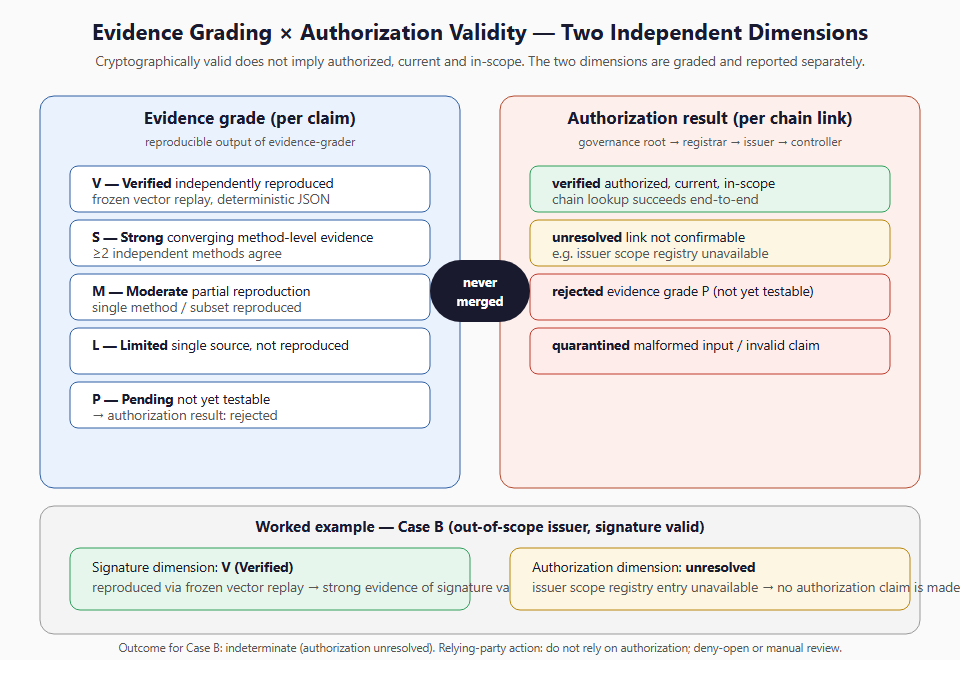
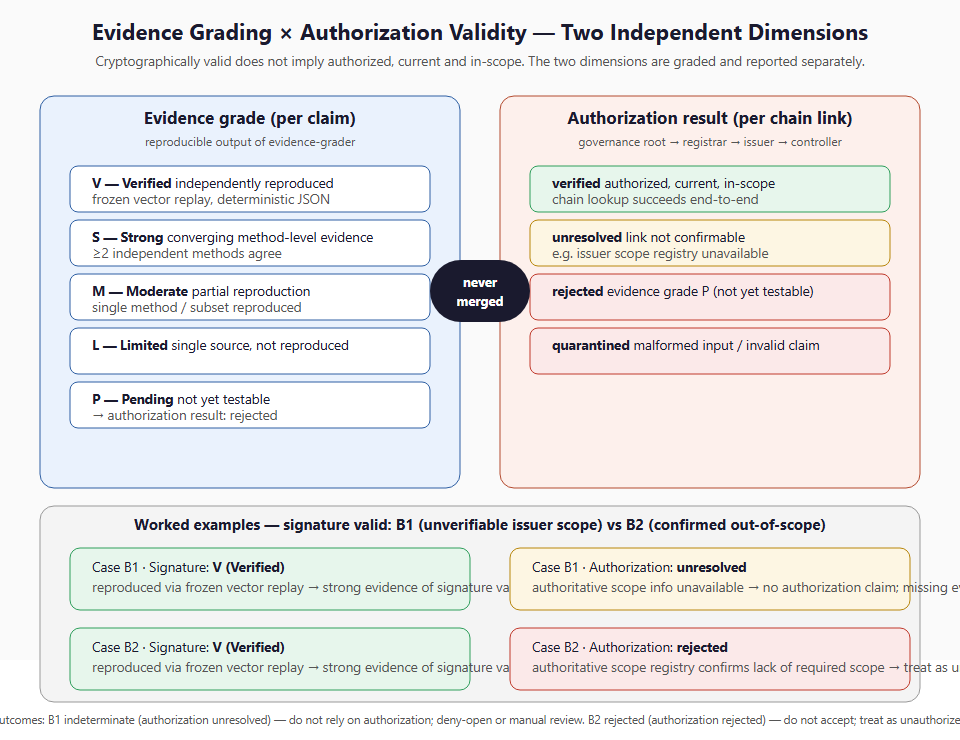
feat(cases): split Case B into B1/B2 with authorization validity dimension (grader v1.2)
Per FG-TIDA themes#42 review: missing evidence of authorization (B1, unresolved) must never be treated as equivalent to demonstrated invalid authorization (B2, rejected). Adds case-level authorization result (verified/unresolved/rejected/quarantined) to inputs and conclusions, updates diagrams (SVG+PNG), README and worked-examples appendix, and regenerates all payload digests. Reproducible via tools/evidence-grader.py (selftest: 15 invariants passed).

Changed region(s): [[0.0, 0.0309, 1.0, 0.9882]]

diff --git a/tools/evidence-grader.py b/tools/evidence-grader.py
@@ -25,7 +25,7 @@ P = Pending / not yet testable（待定）
 
 Failure semantics / 失败语义（v1.1 新增，对应 FG-TIDA use-cases#27 建议）
 ------------------------------------------------------------------------
-每个证据项与每个域输出 failure_class，三态：
+每个证据项与每个域输出 failure_class，四态：
 - quarantined（隔离）: malformed input — missing claim or invalid grade（输入畸形：缺声明或非法级别）
 - rejected（拒绝）   : evidence validly asserted but grade=P (pending, not yet testable)（声明合法但尚不可判定，拒绝采用）
 - unresolved（未决） : evidence exists but the link is not confirmable — verifiable kinds
@@ -33,6 +33,16 @@ Failure semantics / 失败语义（v1.1 新增，对应 FG-TIDA use-cases#27 建
                        （证据存在但链路未确认：可验证类证据缺少可复现/时间戳，或空域）
 - none（无失败）     : evidence accepted at face value（证据正常采用）
 聚合规则：overall_failure_class 取最严重类（quarantined > rejected > unresolved > none）。
+
+Authorization validity / 授权有效性维度（v1.2 新增，对应 FG-TIDA themes#42 评审反馈）
+-----------------------------------------------------------------------------
+证据分级与授权有效性是两个独立维度（见 FG-TIDA/use-cases#27 讨论与 themes#42）。
+输入 JSON 可选携带 case 级 authorization 对象：
+- result（必填）: verified / unresolved / rejected / quarantined
+- reason（必填）: 机器可读原因码/说明
+- relying_party_action（可选）: 依赖方可执行动作
+关键语义：授权信息缺失（unresolved）绝不等于已证实越权（rejected）。
+payload_digest 计算纳入 authorization，端到端可复现。
 
 Usage / 用法
 -------------
@@ -45,7 +55,7 @@ Exit codes / 退出码: 0 success（成功）, 1 input/validation error（输入
 
 Author / 作者: LGD-Eval（Independent Evaluation）
 License / 许可: Apache-2.0
-Version / 版本: v1.1 — failure semantics implemented（失败语义已实现）
+Version / 版本: v1.2 — authorization validity dimension added（授权有效性维度已加入；对应 themes#42 评审反馈）
 """
 from __future__ import annotations
 import argparse, json, sys, hashlib, datetime
@@ -66,6 +76,9 @@ GRADE_ORDER = ["V", "S", "M", "L", "P"]
 # Failure classes / 失败语义类（从最严重到无）
 FAIL_CLASSES = ["quarantined", "rejected", "unresolved", "none"]
 FAIL_ORDER = {c: i for i, c in enumerate(FAIL_CLASSES)}
+
+# Authorization validity results / 授权有效性结果（独立维度，v1.2）
+AUTH_RESULTS = ["verified", "unresolved", "rejected", "quarantined"]
 # 本应可验证的证据类型（若缺少可复现/时间戳则链路未确认）
 VERIFIABLE_KINDS = {"audit", "repro-test", "design+test", "process", "interop"}
 
@@ -118,6 +131,16 @@ def validate(evidence: dict) -> list:
                 errors.append("domain %s: invalid grade %r (允许 V/S/M/L/P)" % (key, grade))
             if not it.get("claim"):
                 errors.append("domain %s: evidence item missing 'claim' (缺少声明)" % key)
+    auth = evidence.get("authorization")
+    if auth is not None:
+        if not isinstance(auth, dict):
+            errors.append("'authorization' must be an object (authorization 必须是对象)")
+        else:
+            if auth.get("result") not in AUTH_RESULTS:
+                errors.append("authorization.result must be one of verified/unresolved/rejected/quarantined"
+                              " (授权结果必须是四态之一)")
+            if not auth.get("reason"):
+                errors.append("authorization.reason is required (授权原因必填)")
     return errors
 
 
@@ -191,20 +214,24 @@ def conclude(evidence: dict, subject: str, evaluator: str = "LGD-Eval") -> dict:
         if FAIL_ORDER[r["failure_class"]] < FAIL_ORDER[overall_fc]:
             overall_fc = r["failure_class"]
     now = datetime.datetime.now(datetime.timezone.utc).strftime("%Y-%m-%dT%H:%M:%SZ")
+    auth = evidence.get("authorization")
     payload = OrderedDict([
-        ("schema", "lgd-eval/conclusion/v1.1"),
+        ("schema", "lgd-eval/conclusion/v1.2"),
         ("subject", subject),
         ("evaluator", evaluator),
         ("timestamp", now),
         ("verdict", verdict),
         ("overall_failure_class", overall_fc),
+        ("authorization", auth),
         ("no_composite_score", True),
         ("bias_controls", BIAS_CONTROLS),
         ("domains", domain_results),
         ("reproducibility", {
             "open_rubric": True, "evidence_appendix": True, "response_window_days": 14,
             "correction_window_hours": 24, "machine_readable": True,
-            "payload_digest": digest_of(json.dumps(domain_results, ensure_ascii=False)),
+            "payload_digest": digest_of(json.dumps(
+                OrderedDict([("domains", domain_results), ("authorization", auth)]),
+                ensure_ascii=False)),
         }),
     ])
     return payload
@@ -278,6 +305,11 @@ DEMO = {
              "kind": "interop", "source": "JSON-LD schema + validator", "reproducible": True, "timestamped": False},
         ],
     },
+    "authorization": {
+        "result": "verified",
+        "reason": "issuer listed in authoritative scope registry for this credential profile and claim type",
+        "relying_party_action": "proceed per normal policy",
+    },
 }
 
 
@@ -305,8 +337,8 @@ def run_selftest() -> int:
         errs.append("selftest 4: composite discipline broken")
     if len(c["domains"]) != 6:
         errs.append("selftest 5: domain count != 6")
-    if c["schema"] != "lgd-eval/conclusion/v1.1":
-        errs.append("selftest 5b: schema version not v1.1")
+    if c["schema"] != "lgd-eval/conclusion/v1.2":
+        errs.append("selftest 5b: schema version not v1.2")
     # 5. Deterministic digest / 摘要确定性
     if digest_of("abc") != digest_of("abc"):
         errs.append("selftest 6: digest not deterministic")
@@ -325,11 +357,35 @@ def run_selftest() -> int:
         errs.append("selftest 11: overall failure class should be none for demo")
     if "failure_class" not in c["domains"]["D4"] or c["domains"]["D4"]["failure_class"] != "none":
         errs.append("selftest 12: D4 policy evidence failure class should be none")
+    # 13. Authorization validity dimension / 授权维度校验与透传
+    if c["schema"] != "lgd-eval/conclusion/v1.2":
+        errs.append("selftest 13: schema version not v1.2")
+    if not c.get("authorization") or c["authorization"].get("result") != "verified":
+        errs.append("selftest 13b: authorization validity not carried into conclusion")
+    bad_auth = {"subject": "x", "domains": {"D1": [{"claim": "c", "grade": "V"}]},
+                "authorization": {"result": "bogus", "reason": "r"}}
+    if not validate(bad_auth):
+        errs.append("selftest 13c: invalid authorization result not rejected")
+    # 14. B1 vs B2 separation / missing evidence of authorization ≠ demonstrated invalid authorization
+    b1 = {"subject": "B1", "domains": {"D1": [{"claim": "sig", "grade": "V", "kind": "repro-test",
+                                                "reproducible": True, "timestamped": True}]},
+          "authorization": {"result": "unresolved", "reason": "scope info unavailable"}}
+    b2 = {"subject": "B2", "domains": {"D1": [{"claim": "sig", "grade": "V", "kind": "repro-test",
+                                                "reproducible": True, "timestamped": True}]},
+          "authorization": {"result": "rejected", "reason": "scope registry confirms lack of scope"}}
+    c1, c2 = conclude(b1, "B1"), conclude(b2, "B2")
+    if c1["authorization"]["result"] != "unresolved" or c2["authorization"]["result"] != "rejected":
+        errs.append("selftest 14: B1/B2 authorization separation broken")
+    if c1["reproducibility"]["payload_digest"] == c2["reproducibility"]["payload_digest"]:
+        errs.append("selftest 14b: B1/B2 digests must differ (authorization enters digest)")
+    # 15. Digest determinism including authorization / 摘要确定性（含授权维度）
+    if conclude(b1, "B1")["reproducibility"]["payload_digest"] != c1["reproducibility"]["payload_digest"]:
+        errs.append("selftest 15: digest not deterministic with authorization")
     if errs:
         for e in errs:
             print("FAIL: %s" % e)
         return 1
-    print("SELFTEST OK — 12 invariants passed（12 项不变量全部通过）")
+    print("SELFTEST OK — 15 invariants passed（15 项不变量全部通过）")
     return 0
 
 

diff --git a/worked-examples/cases/README.md b/worked-examples/cases/README.md
@@ -1,12 +1,22 @@
-# Worked Examples — Three Implementation-Neutral Cases
+# Worked Examples — Four Implementation-Neutral Cases
 
[2 lines of base64/hex data omitted]
+
+The former "Case B — Out-of-scope issuer" has been split into **B1** and **B2** per the [themes#42 review](https://github.com/FG-TIDA/themes/issues/42): missing evidence of authorization (B1, `unresolved`) must never be treated as equivalent to demonstrated invalid authorization (B2, `rejected`).
 
 | Case | Input (JSON) | Outcome | Reason | Relying-party action |
 |---|---|---|---|---|
 | A. Valid registered credential | `caseA_valid_registered_credential_input.json` | **positive** | `none` | proceed per normal policy |
-| B. Out-of-scope issuer (signature valid) | `caseB_out_of_scope_issuer_input.json` | **indeterminate** | `authorization unresolved` | do not rely on authorization; treat per risk policy (deny-open or manual review) |
+| B1. Unverifiable issuer scope (signature valid) | `caseB1_unverifiable_issuer_scope_input.json` | **indeterminate** | `authorization unresolved` — missing evidence of authorization ≠ demonstrated invalid authorization | do not rely on authorization; treat per risk policy (deny-open or manual review) |
+| B2. Confirmed out-of-scope issuer (signature valid) | `caseB2_confirmed_out_of_scope_issuer_input.json` | **rejected** | `authorization rejected` — authoritative scope registry confirms the issuer lacks the required scope | do not accept the credential for this operation; treat as unauthorized |
 | C. Status source unavailable | `caseC_unavailable_status_source_input.json` | **indeterminate** | `status unavailable ≠ revoked` | do not treat as revoked; do not treat as valid; escalate |
+
+## B1 vs B2 — the distinction
+
+- **B1** tests the case where authoritative issuer-scope information is **unavailable** at verification time (issuer self-declaration only). The verifier cannot confirm authorization, so the authorization result is **unresolved / indeterminate**; the relying party must not assume the issuer is out of scope, but also must not rely on the authorization.
+- **B2** tests the case where an authoritative scope registry **confirms** that the issuer lacks the required scope for this credential profile and claim type, with a valid signature. The authorization result is **rejected / unauthorized**, with an explicit reason code.
+
+Both retain explicit reason codes and remain distinguishable in the machine-readable conclusion (`authorization.result`), so implementations can fail the same observable way — addressing the interoperability concern raised in FG-TIDA themes#7 and use-cases#27 (implementations that *fail* differently break interoperability faster than implementations that *verify* differently).
 
 ## Decision flow
 
@@ -17,10 +27,11 @@ flowchart TD
     B -->|M / L| D{More evidence obtainable?}
     B -->|P| E[Rejected: not yet testable]
     C -->|Yes| F{Status current?}
-    C -->|No| G[Indeterminate - authorization unresolved<br/>deny-open or manual review]
-    F -->|Yes| H[Positive - proceed per normal policy]
+    C -->|No - scope info unavailable| G[Indeterminate - B1: authorization unresolved<br/>missing evidence ≠ invalid; deny-open or manual review]
+    C -->|No - scope confirmed lacking| G2[Rejected - B2: authorization rejected<br/>do not accept; treat as unauthorized]
+    F -->|Yes| H[Positive - A: proceed per normal policy]
     F -->|No / revoked| I[Negative - treat as revoked]
-    F -->|Unavailable| J[Indeterminate - status unavailable does not equal revoked<br/>escalate]
+    F -->|Unavailable| J[Indeterminate - C: status unavailable does not equal revoked<br/>escalate]
     D -->|Yes| K[Request more evidence / re-evaluate]
     D -->|No| G
 ```
@@ -47,10 +58,11 @@ sequenceDiagram
 
 ## Machine-readable notes
 
-- Each conclusion JSON carries a `payload_digest` for end-to-end reproduction:
-  - Case A: `edc9b6fafba9ccf4`
-  - Case B: `995eba87beff6e7a`
-  - Case C: `faaf76277c4ac390`
-- Scope note: `overall_failure_class` in the conclusion JSON is computed under the tool's global discipline (out-of-scope domains report `unresolved` when no evidence is provided; this is expected v1.1 behaviour). The case-level outcome / reason / relying-party-action above is the layered interpretation discussed in FG-TIDA/use-cases#27.
+- Each conclusion JSON carries a `payload_digest` for end-to-end reproduction (schema `lgd-eval/conclusion/v1.2`; the digest covers both the graded domains and the `authorization` dimension):
+  - Case A: `640db270e69c9f79`
+  - Case B1: `8d81c5d559914ec5`
+  - Case B2: `c19e1781ebd4f690`
+  - Case C: `8333b571827a1c01`
+- Scope note: `overall_failure_class` in the conclusion JSON is computed under the tool's global evidence discipline (out-of-scope domains report `unresolved` when no evidence is provided; this is expected v1.x behaviour). The case-level outcome / reason / relying-party-action above is the layered interpretation discussed in FG-TIDA/use-cases#27 and themes#42 — evidence quality and authorization validity are separate axes.
 - The case set is implementation-neutral: the tooling is an optional evaluation aid only; the inputs and expected outcomes are the deliverable.
-- Companion diagrams: `assets/evidence_grade_vs_authority.svg` (evidence grade × authorization validity, two independent dimensions) and `assets/three_cases_outcome_flow.svg` (three-case decision flow).
+- Companion diagrams: `assets/evidence_grade_vs_authority.svg` (evidence grade × authorization validity, two independent dimensions) and `assets/three_cases_outcome_flow.svg` (case decision flow, B1/B2 shown separately).

diff --git a/WORKED_EXAMPLES_L0-L13.md b/WORKED_EXAMPLES_L0-L13.md
@@ -165,12 +165,13 @@
 
 ## Appendix A — Reproduction from live runs / 附录 A：实测复现对照
 
[2 lines of base64/hex data omitted]
 
 | Case / 用例 | Scenario / 场景 | Judgment / 判定 | Outcome / 结果 |
 |---|---|---|---|
-| A — Valid registered credential / 有效已注册凭证 | Signed credential from an authorized issuer, status source available | L0/L1/L2 contract, static and functional checks pass; signature grade V | **positive** (reason: `none`) |
-| B — Out-of-scope issuer / 越权签发者 | Signature verifies, but issuer lacks authorization scope | Signature grade V; authorization **unresolved** | **indeterminate** (reason: `authorization unresolved`) |
+| A — Valid registered credential / 有效已注册凭证 | Signed credential from an authorized issuer, status source available | L0/L1/L2 contract, static and functional checks pass; signature grade V; authorization **verified** | **positive** (reason: `none`) |
+| B1 — Unverifiable issuer scope / 签发范围不可判定 | Signature verifies, but authoritative issuer-scope information is unavailable | Signature grade V; authorization **unresolved** | **indeterminate** (reason: `authorization unresolved`; missing evidence ≠ invalid) |
+| B2 — Confirmed out-of-scope issuer / 已证实越权签发者 | Signature verifies, authoritative scope registry confirms the issuer lacks the required scope | Signature grade V; authorization **rejected** | **rejected** (reason: `authorization rejected`) |
 | C — Status source unavailable / 状态源不可用 | Credential cannot be confirmed or denied because the status source is down | Authorization **unresolved**; `unavailable ≠ revoked` | **indeterminate** (reason: `status unavailable ≠ revoked`) |
 
-*Worked examples drafted 2026-10-16 by LGD-Eval (evaluation account) — bilingual, English first, Chinese second. / 实例由 LGD-Eval 评测号起草（2026-10-16），双语，英前中后。*
+*Case B was split into B1/B2 per the themes#42 review (missing evidence of authorization ≠ demonstrated invalid authorization). Worked examples drafted 2026-10-16, updated 2026-10-17 by LGD-Eval (evaluation account) — bilingual, English first, Chinese second. / 实例由 LGD-Eval 评测号起草并更新（双语，英前中后）；原 Case B 按 themes#42 评审意见拆分为 B1/B2。*

diff --git a/tools/demo/demo-conclusion.md b/tools/demo/demo-conclusion.md
@@ -2,7 +2,7 @@
 
 - **Subject / 评估对象**: MedXpert-LLM-Library v1.6 (medical-device compliance assistant) / 示例：医械合规助手
 - **Evaluator / 评估方**: LGD-Eval
-- **Timestamp / 时间戳**: 2026-10-14T17:13:00Z
+- **Timestamp / 时间戳**: 2026-10-16T23:01:25Z
 - **Verdict / 总体判词**: Partially evidenced（部分有据）
 - **Overall failure class / 总体失败类**: none
 - **No composite score / 无复合分**: True（域级独立评分，禁止复合）
@@ -30,6 +30,6 @@
 - evidence appendix（证据附录）: True
 - response window（回应期）: 14 days / 24h corrections
 - machine-readable（机器可读）: True
-- payload digest（载荷摘要）: `33cc31af12edfcc0`
+- payload digest（载荷摘要）: `106e64ae1534df82`
 
 *Generated by LGD-Eval evidence-grader（由证据分级器生成）；结论受证据级别约束，欢迎独立复现。*
